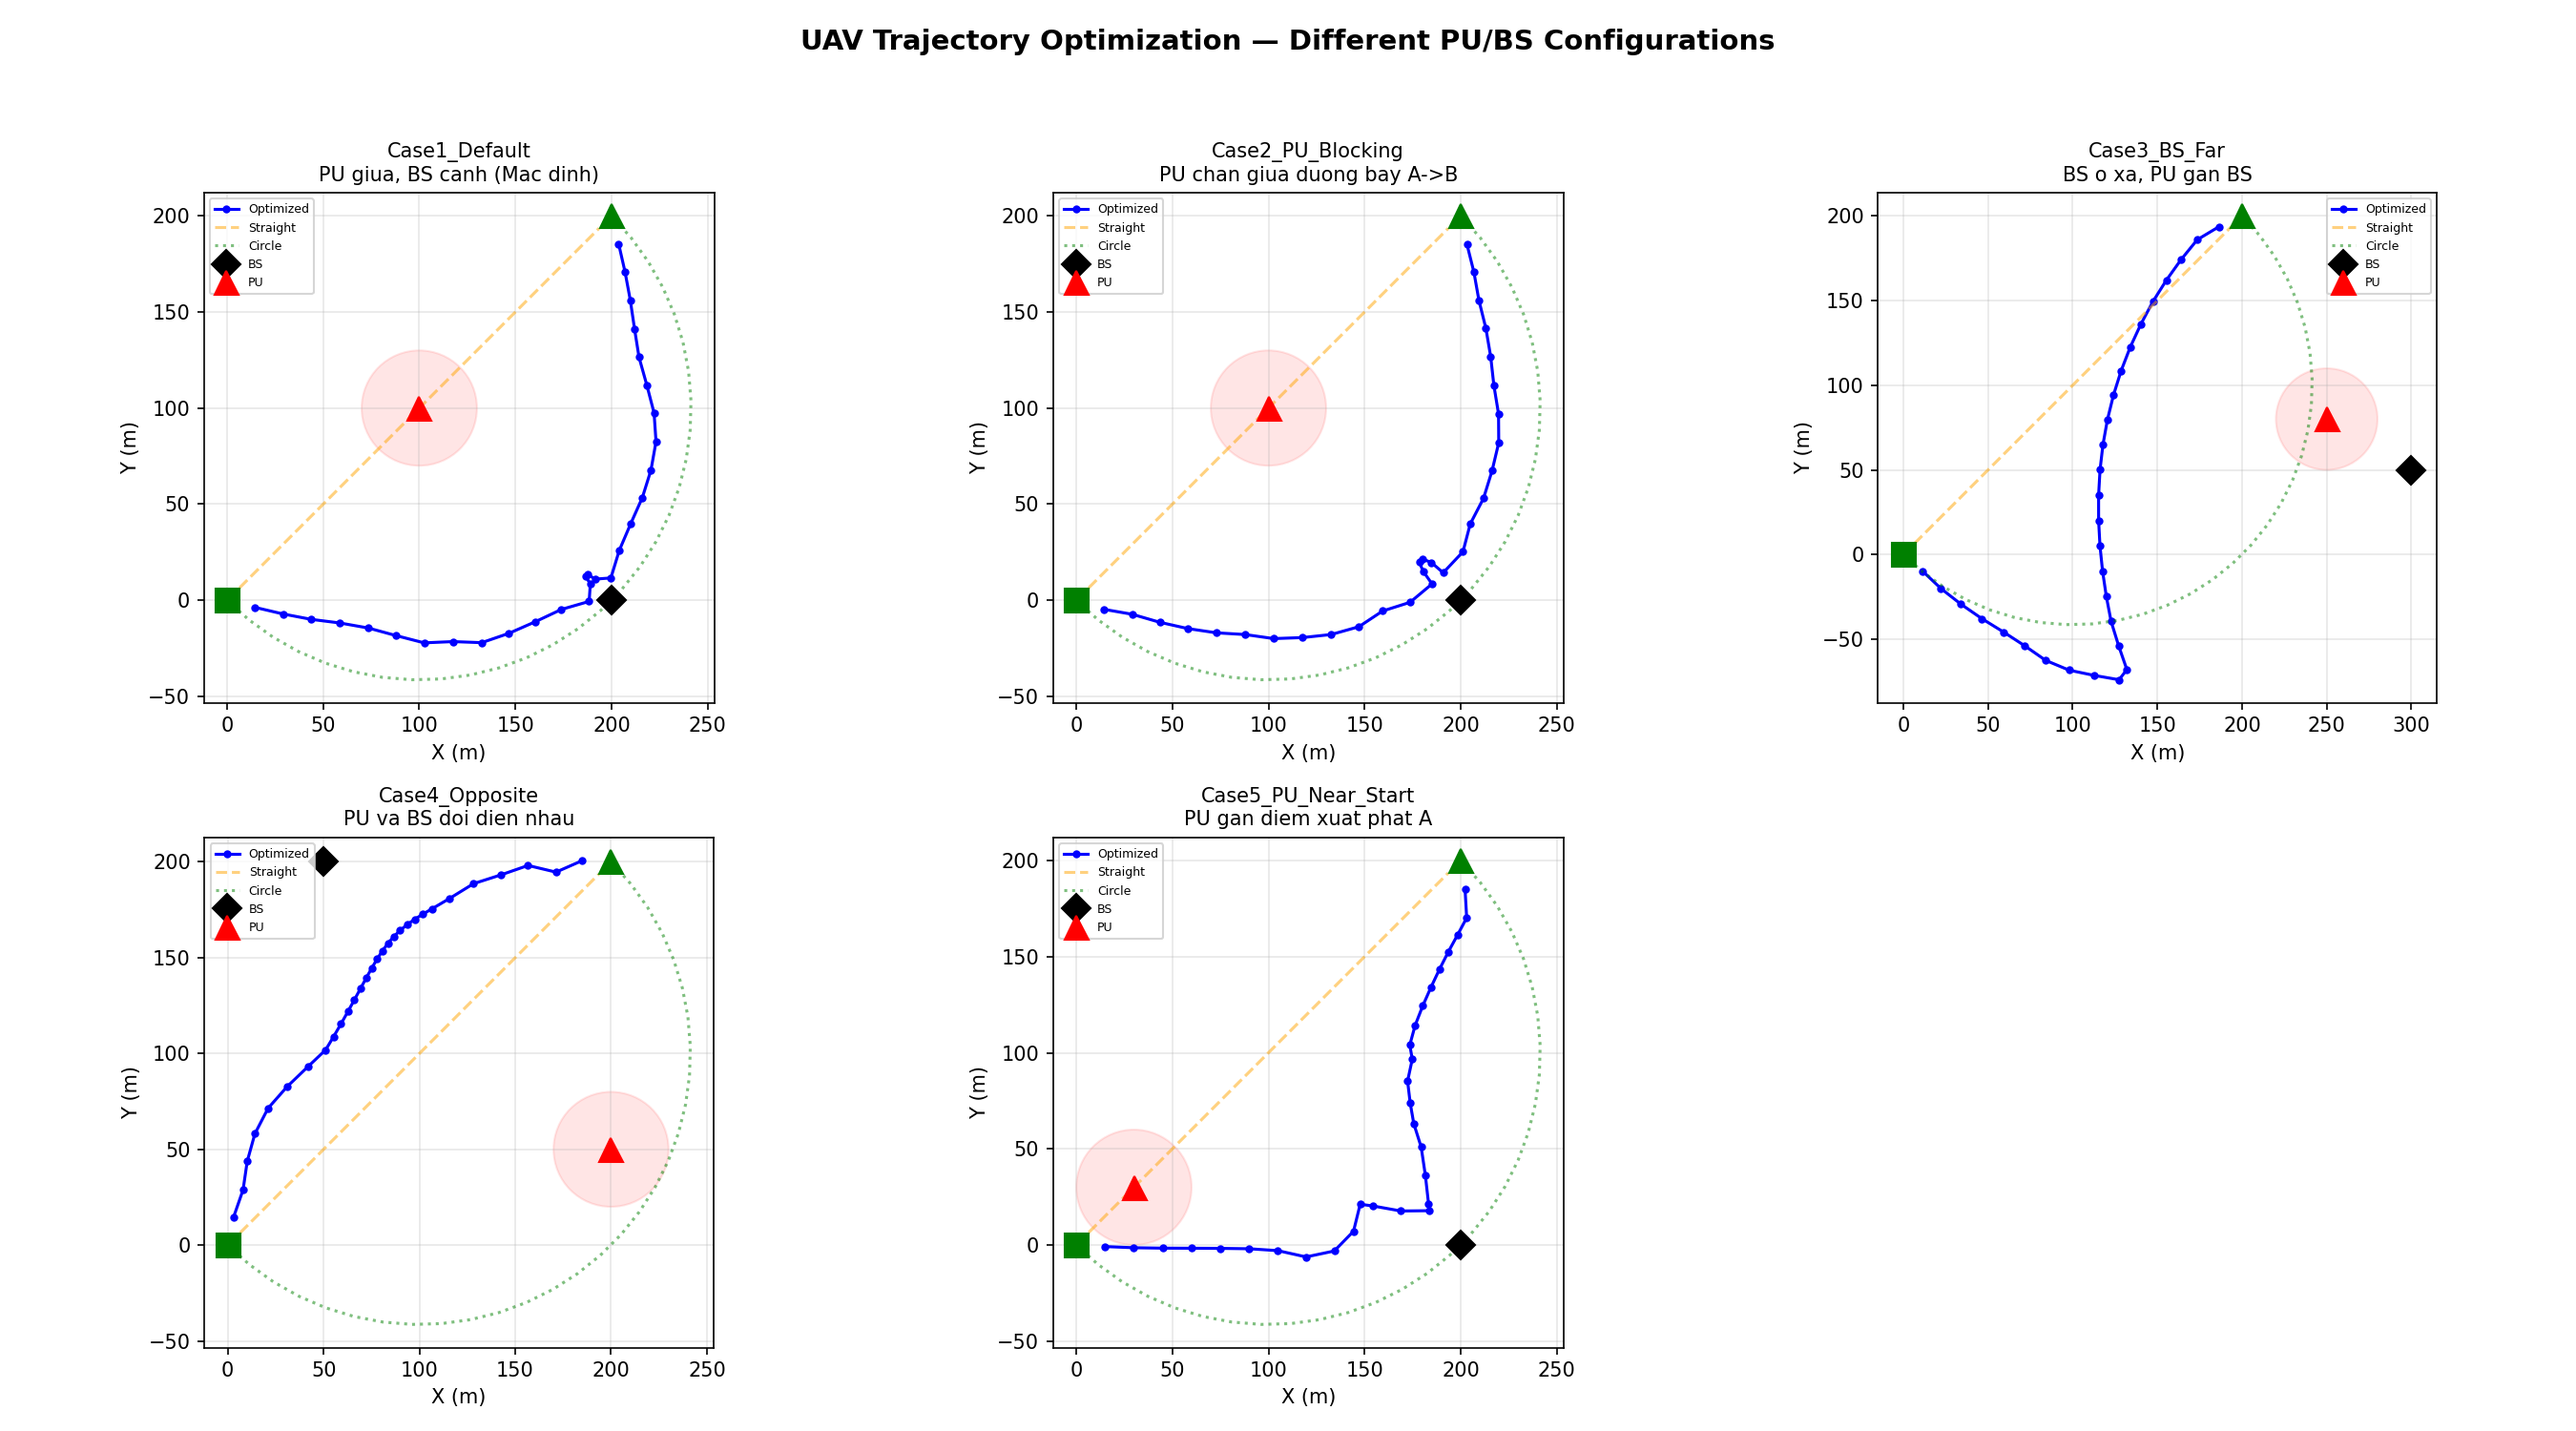
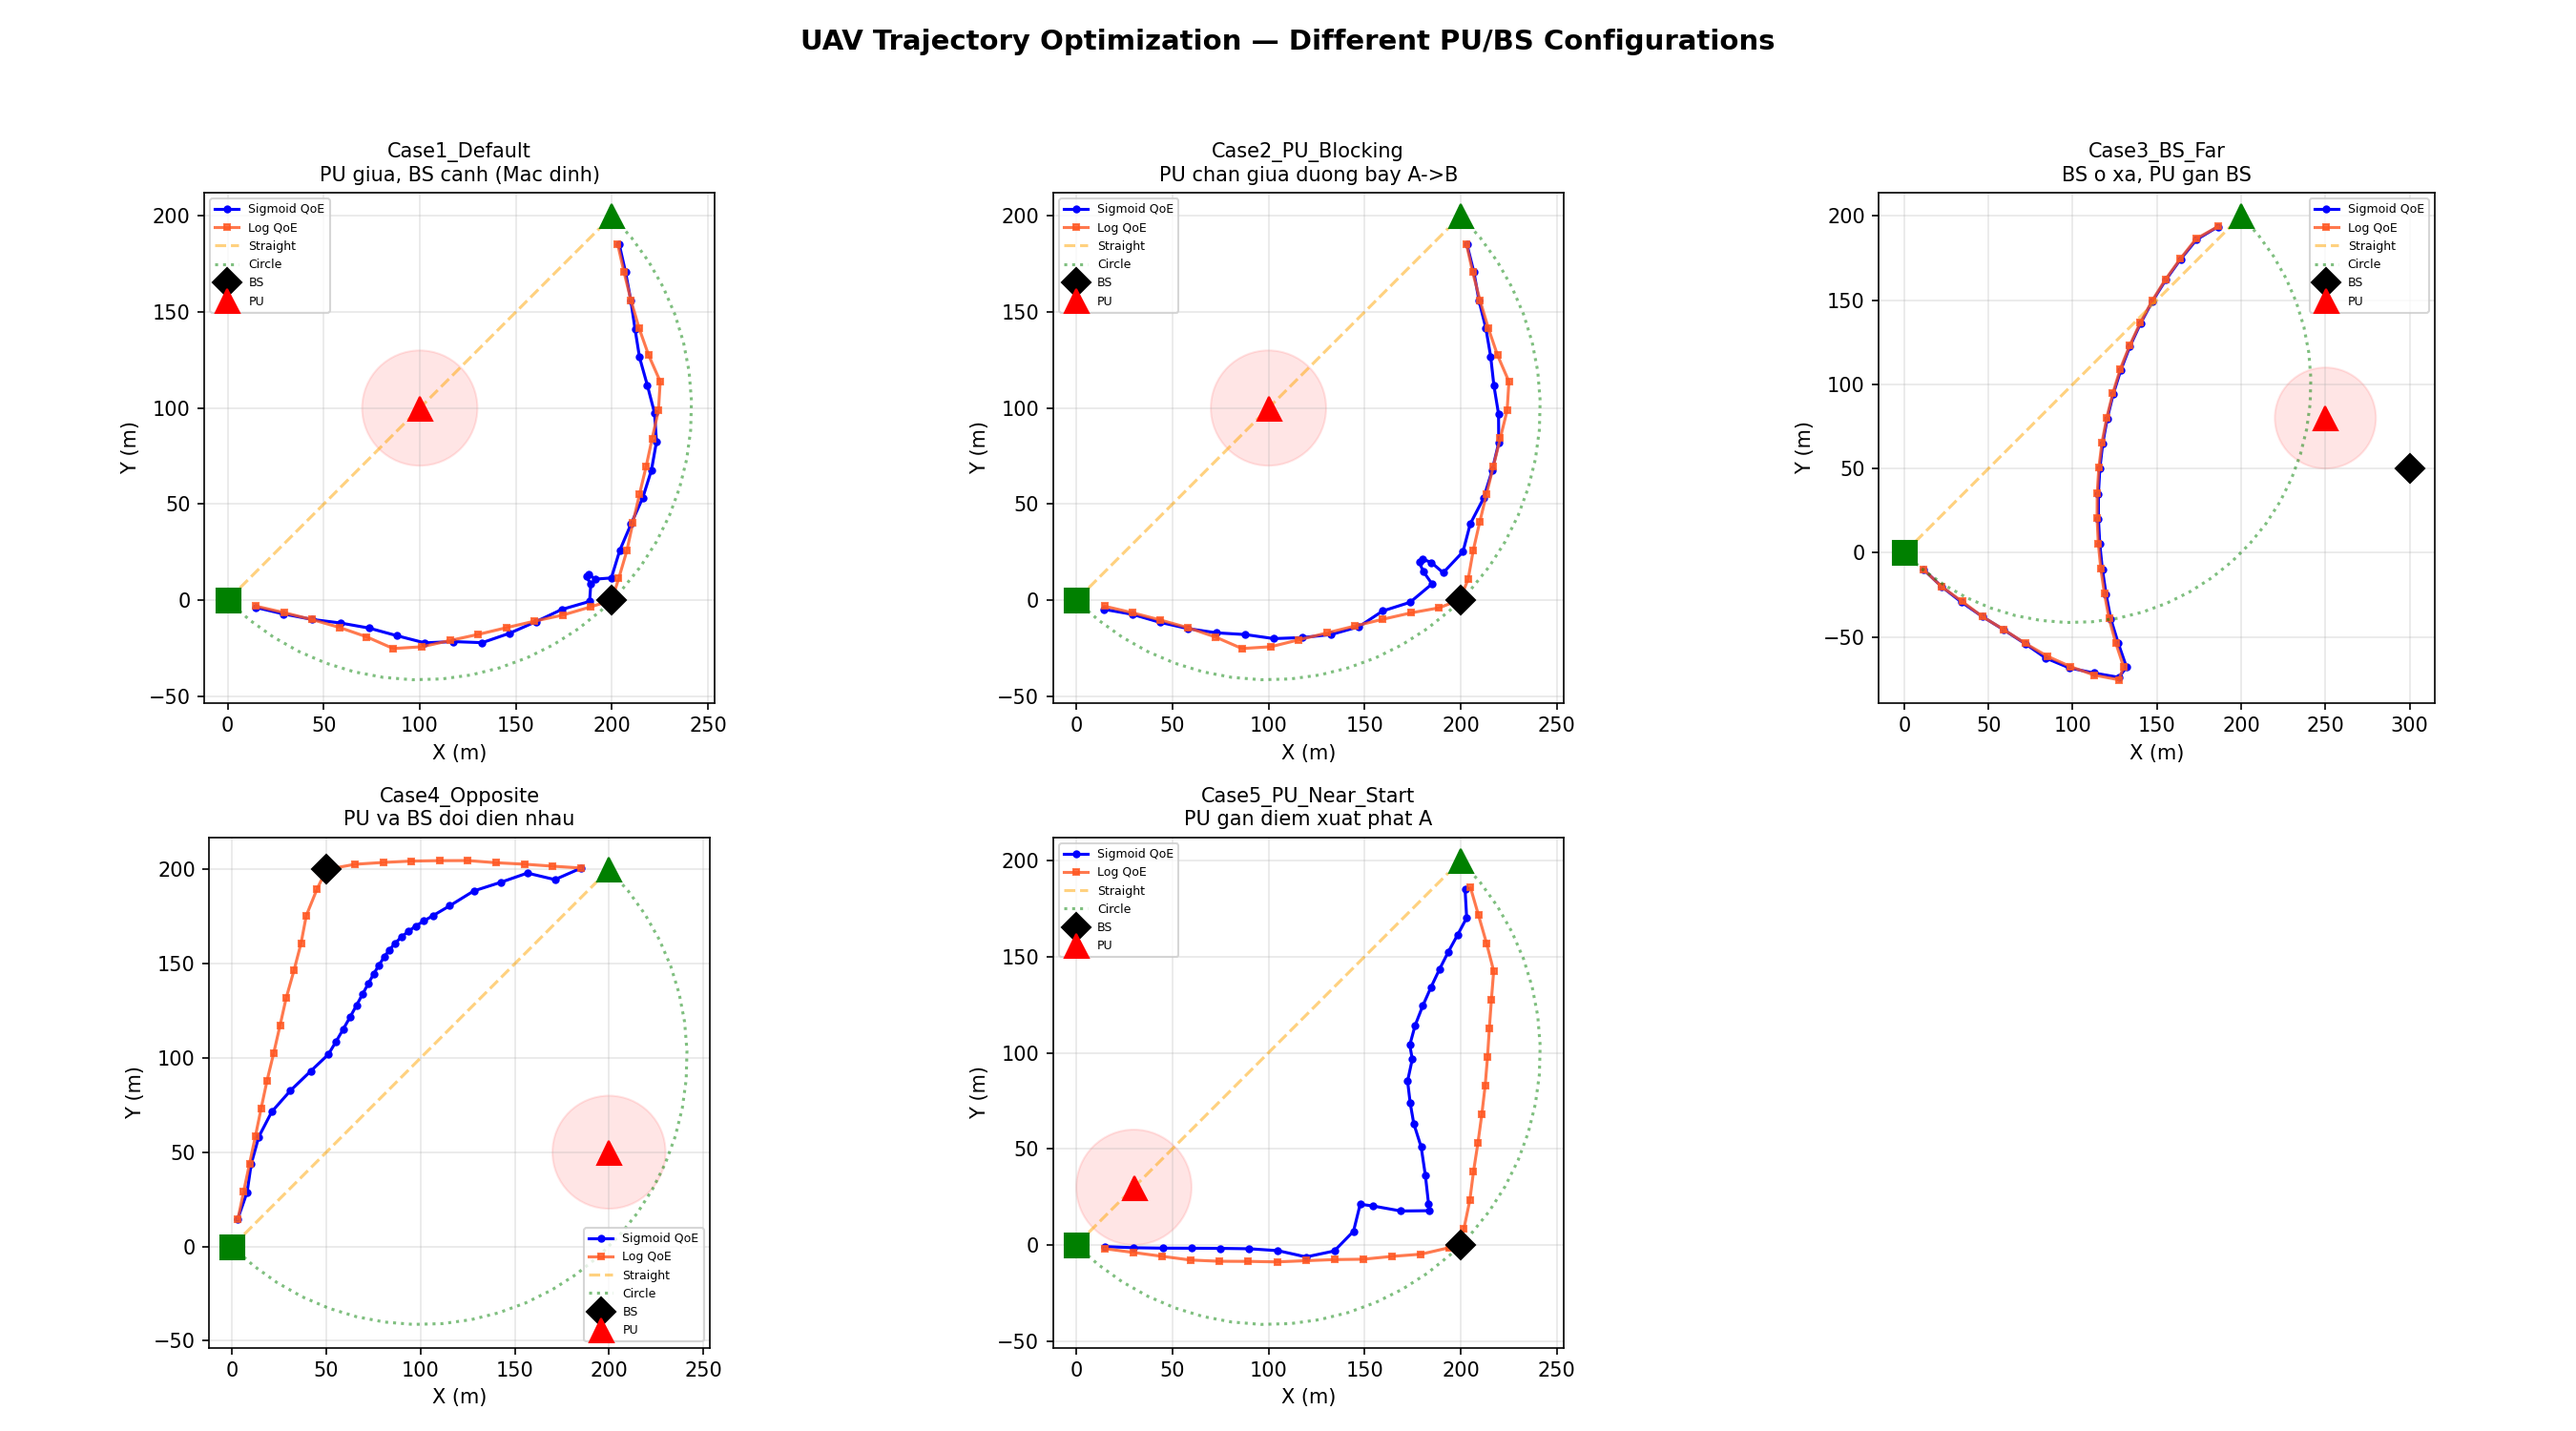
Fix: Added Log QoE trajectory (orange squares) to the trajectory plot

diff --git a/encoder.py b/encoder.py
@@ -267,8 +267,13 @@ def plot_all_trajectories(all_results):
         q_A = np.array(cfg["q_A"]); q_B = np.array(cfg["q_B"])
         w_BS = np.array(cfg["w_BS"]); w_PU = np.array(cfg["w_PU"])
 
-        # Quỹ đạo tối ưu
-        ax.plot(traj[:, 0], traj[:, 1], 'b-o', ms=3, lw=1.5, label='Optimized')
+        # Quỹ đạo tối ưu (Sigmoid QoE)
+        ax.plot(traj[:, 0], traj[:, 1], 'b-o', ms=3, lw=1.5, label='Sigmoid QoE')
+        # Quỹ đạo Log QoE
+        if "traj_log" in data:
+            traj_log = data["traj_log"]
+            ax.plot(traj_log[:, 0], traj_log[:, 1], '-s', color='#FF5722',
+                    ms=3, lw=1.5, alpha=0.8, label='Log QoE')
         # Đường thẳng A→B
         traj_s = data["traj_straight"]
         ax.plot(traj_s[:, 0], traj_s[:, 1], '--', color='orange', alpha=0.5, label='Straight')
